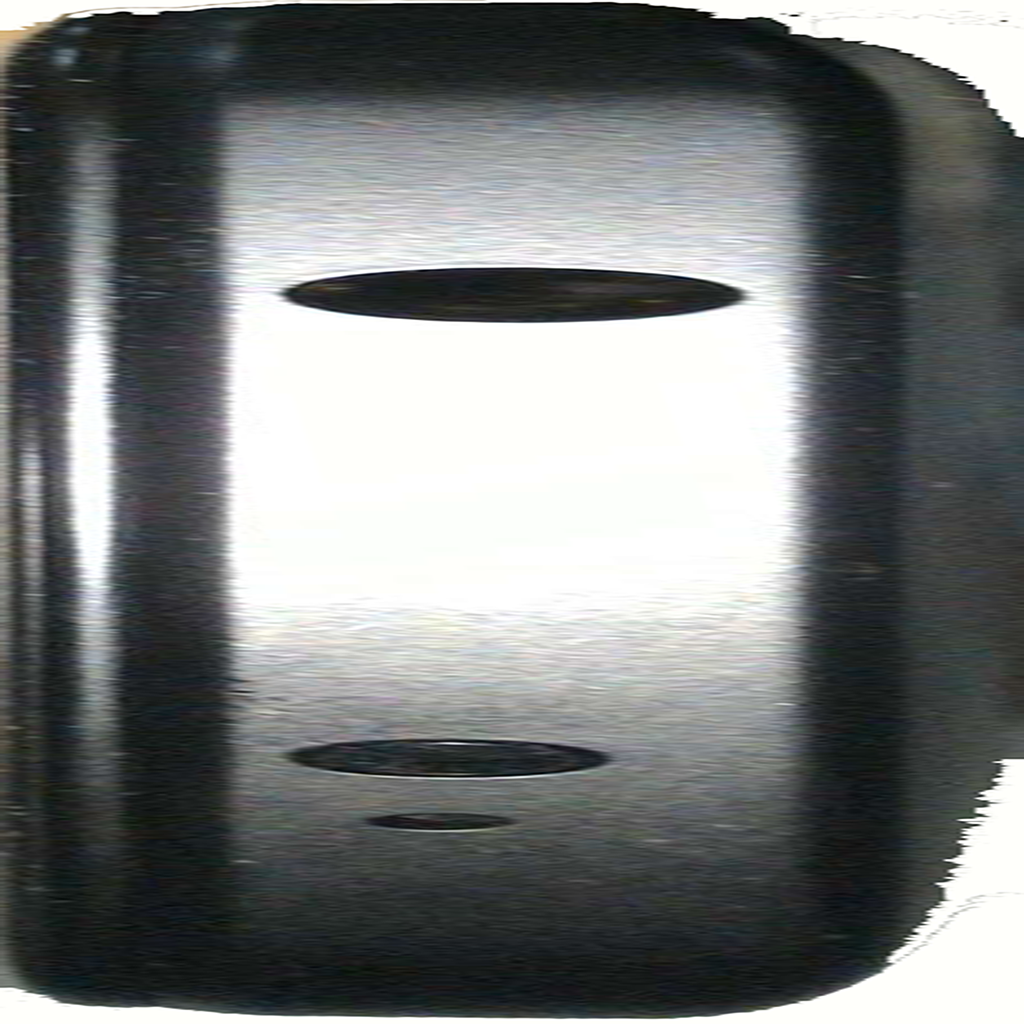
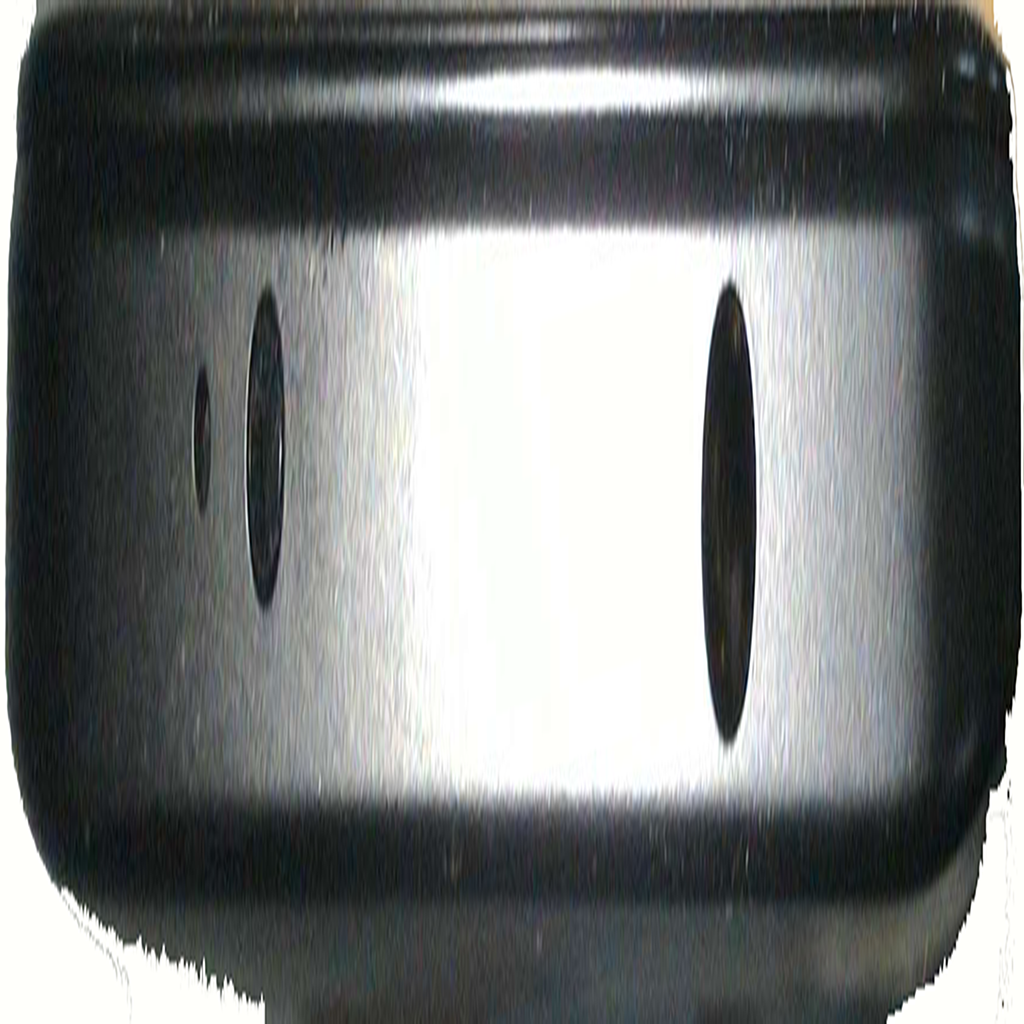
Phone Face Adjustments

diff --git a/work.py b/work.py
@@ -1,0 +1,143 @@
+from glumpy import app, gloo, gl, glm, data
+import numpy as np
+from os.path import abspath
+
+
+vertex = """
+    uniform mat4 u_model;       // Model matrix (local to world space)
+    uniform mat4 u_view;        // View matrix (world to camera space)
+    uniform mat4 u_projection;  // Projection matrix (camera to screen)
+    attribute vec3 a_position;  // Vertex Position
+    attribute vec3 a_normal;    // Vertex normal
+    varying vec3   v_texcoord;  // Interpolated fragment texture coordinates (out)
+    varying vec3   v_position;  // Interpolated position (out)
+    varying vec3   v_normal;    // Interpolated normal (out)
+    void main()
+    {
+        v_texcoord  = a_position;
+		v_normal = a_normal;
+		v_position = a_position;
+        gl_Position = u_projection * u_view * u_model * vec4(a_position,1.0);
+    } """
+
+fragment = """
+    uniform mat4      u_model;           // Model matrix
+    uniform mat4      u_view;            // View matrix
+    uniform mat4      u_normal;          // Normal matrix
+    uniform vec3      u_light_position;  // Light position
+    uniform vec3      u_light_intensity; // Light intensity
+    uniform samplerCube u_texture;       // Texture
+    varying vec3      v_normal;          // Interpolated normal (out)
+    varying vec3      v_position;        // Interpolated position (out)
+    varying vec3      v_texcoord;        // Interpolated fragment texture coordinates (out)
+    void main()
+    {
+        // Calculate normal in world coordinates
+        vec3 normal = normalize(u_normal * vec4(v_normal,1.0)).xyz;
+        // Calculate the location of this fragment (pixel) in world coordinates
+        vec3 position = vec3(u_view*u_model * vec4(v_position, 1));
+        // Calculate the vector from this pixels surface to the light source
+        vec3 surfaceToLight = u_light_position - position;
+        // Calculate the cosine of the angle of incidence (brightness)
+        float brightness = dot(normal, surfaceToLight) /
+                          (length(surfaceToLight) * length(normal));
+        brightness = max(min(brightness,1.0),0.0);
+        // Calculate final color of the pixel, based on:
+        // 1. The angle of incidence: brightness
+        // 2. The color/intensities of the light: light.intensities
+        // 3. The texture and texture coord: texture(tex, fragTexCoord)
+        // Get texture color
+        vec4 t_color = textureCube(u_texture, v_texcoord);
+        gl_FragColor = t_color * (0.1 + 0.9*brightness * vec4(u_light_intensity, 1));
+    } """
+
+fragment_plain = """
+    uniform samplerCube u_texture;  // Texture
+    varying vec3      v_normal;     // Interpolated normal (in)
+    varying vec3      v_position;   // Interpolated position (in)
+    varying vec3      v_texcoord;   // Interpolated fragment texture coordinates (in)
+    void main()
+    {
+        vec4 t_color = textureCube(u_texture, v_texcoord);
+        gl_FragColor = t_color;
+    } """
+
+
+# Initialize the array of vertex, and normal faces
+vertex_pos = [[ 1, 1, 1], [-1, 1, 1], [-1,-1, 1], [ 1,-1, 1], [ 1,-1,-1], [ 1, 1,-1], [-1, 1,-1], [-1,-1,-1]]
+face_norm = [[0, 0, 1], [1, 0, 0], [0, 1, 0],[-1, 0, 1], [0, -1, 0], [0, 0, -1]]
+
+face_vertex_idx = [0, 1, 2, 3,  0, 3, 4, 5,   0, 5, 6, 1,  1, 6, 7, 2,  7, 4, 3, 2,   4, 7, 6, 5]
+face_normal_idx = [0, 0, 0, 0,  1, 1, 1, 1,   2, 2, 2, 2, 3, 3, 3, 3,  4, 4, 4, 4,   5, 5, 5, 5]
+
+# Upload the texture data
+texture = np.zeros((6,1024,1024,3),dtype=np.float32).view(gloo.TextureCube)
+texture.interpolation = gl.GL_LINEAR
+texture[2] = data.get(abspath("Top_t2.png"))/255.
+texture[3] = data.get(abspath("Bottom_t2.png"))/255.
+texture[0] = data.get(abspath("Left_t2.png"))/255.
+texture[1] = data.get(abspath("Right_t2.png"))/255.
+texture[4] = data.get(abspath("Front_t2.png"))/255.
+texture[5] = data.get(abspath("Back_t2.png"))/255.
+
+# Bind the vertex object to the cube program
+cube = gloo.Program(vertex, fragment)
+cube["a_position"] = [vertex_pos[i] for i in face_vertex_idx]
+cube['a_normal'] = [face_norm[i] for i in face_normal_idx]
+cube['u_texture'] = texture
+
+# Initiate all three matrix
+view = np.eye(4,dtype=np.float32)
+model = np.eye(4,dtype=np.float32)
+projection = glm.perspective(45.0, 1, 2.0, 100.0)
+
+# Minimize the model, and move the camera-view back
+glm.scale(model,0.5,1,0.1)
+glm.translate(view, 0,0,-5)
+
+# Pass all the matrix to the model
+cube['u_model'] = model
+cube['u_view'] = view
+cube['u_projection'] = projection
+cube["u_light_position"] = 0,0,-2
+cube["u_light_intensity"] = 1,1,1
+
+# Initiaze the window
+phi = 0.5
+theta = 0.1
+kappa = 1
+window = app.Window(800,600)
+
+
+@window.event
+def on_resize(width, height):
+   global projection
+
+   ratio = width / float(height)
+   projection = glm.perspective(45.0, ratio, 2.0, 100.0)
+   cube['u_projection'] = projection
+
+
+@window.event
+def on_draw(dt):
+    global phi, theta, model
+
+    window.clear()
+    cube.draw(gl.GL_QUADS)
+
+    # Make cube rotate
+    #view = cube['u_view'].reshape(4,4)
+    #model = np.eye(4, dtype=np.float32)
+    glm.rotate(model, theta, 0, 0, 1)
+    glm.rotate(model, phi, 0, 1, 0)
+    glm.rotate(model, kappa, 1, 0, 0)
+    cube['u_model'] = model
+    cube['u_normal'] = np.array(np.matrix(np.dot(view, model)).I.T)
+
+
+@window.event
+def on_init():
+    gl.glEnable(gl.GL_DEPTH_TEST)
+    #gl.glDisable(gl.GL_BLEND)
+
+app.run()

diff --git a/phone.py b/phone.py
@@ -1,21 +1,21 @@
 import numpy as np
-from glumpy import app, gloo, gl, data
+from glumpy import app, gl, glm, gloo, data
 from os.path import abspath
 
 vertex = """
-uniform mat4   u_model;         // Model matrix
-uniform mat4   u_view;          // View matrix
-uniform mat4   u_projection;    // Projection matrix
-attribute vec3 a_position;      // Vertex position
-attribute vec3 a_texcoord;      // Vertex texture coordinates
-varying vec3   v_texcoord;      // Interpolated fragment texture coordinates (out)
-void main()
-{
-    // Assign varying variables
-    v_texcoord  = a_texcoord;
-    // Final position
-    gl_Position = u_projection * u_view * u_model * vec4(a_position,1.0);
-}
+	uniform mat4   u_model;         // Model matrix
+	uniform mat4   u_view;          // View matrix
+	uniform mat4   u_projection;    // Projection matrix
+    attribute vec3 a_position;
+    varying vec3 v_texcoord;
+	varying vec3   v_position;  // Interpolated position (out)
+	
+    void main()
+    {
+        gl_Position = u_projection * u_view * u_model * vec4(a_position,1.0);
+        v_texcoord = a_position;
+		v_position = a_position;
+    }
 """
 
 fragment = """
@@ -28,37 +28,60 @@ fragment = """
 """
 
 
-window = app.Window(width=1024, height=1024)
+window = app.Window(width=1024, height=1024,
+                    color=(0.30, 0.30, 0.35, 1.00))
 
 @window.event
 def on_draw(dt):
-    window.clear()
-    program.draw(gl.GL_TRIANGLES, indices)
+	global phi, theta, beta
+
+	window.clear()
+	program.draw(gl.GL_QUADS)
+	# Rotate cube
+	glm.rotate(model, theta, 0, 0, 1)
+	glm.rotate(model, phi, 0, 1, 0)
+	glm.rotate(model, beta, 1, 0, 0)
+	program['u_model'] = model
 
 @window.event
 def on_init():
     gl.glEnable(gl.GL_DEPTH_TEST)
+	
+@window.event
+def on_resize(width, height):
+    program['u_projection'] = glm.perspective(45.0, width / float(height), 2.0, 100.0)
+			 
+p = np.array([[+1,+1,+1], [-1,+1,+1], [-1,-1,+1], [+1,-1,+1],
+                     [+1,-1,-1], [+1,+1,-1], [-1,+1,-1], [-1,-1,-1]])
+n = np.array([[0, 0, 1], [1, 0, 0], [0, 1, 0],
+                  [-1, 0, 1], [0, -1, 0], [0, 0, -1]])
 
-vertices = np.array([[+1,+1,+1], [-1,+1,+1], [-1,-1,+1], [+1,-1,+1],
-                     [+1,-1,-1], [+1,+1,-1], [-1,+1,-1], [-1,-1,-1]])
-texcoords = np.array([[+1,+1,+1], [-1,+1,+1], [-1,-1,+1], [+1,-1,+1],
-                     [+1,-1,-1], [+1,+1,-1], [-1,+1,-1], [-1,-1,-1]])
-faces = np.array([vertices[i] for i in [0,1,2,3, 0,3,4,5, 0,5,6,1,
-                                        6,7,2,1, 7,4,3,2, 4,7,6,5]])
-indices = np.resize(np.array([0,1,2,0,2,3], dtype=np.uint32), 36)
-indices += np.repeat(4 * np.arange(6, dtype=np.uint32), 6)
-indices = indices.view(gloo.IndexBuffer)
+faces_p = [0, 1, 2, 3,  0, 3, 4, 5,   0, 5, 6, 1,
+               1, 6, 7, 2,  7, 4, 3, 2,   4, 7, 6, 5]
+faces_n = [0, 0, 0, 0,  1, 1, 1, 1,   2, 2, 2, 2,
+		   3, 3, 3, 3,  4, 4, 4, 4,   5, 5, 5, 5]
+		   
+program = gloo.Program(vertex, fragment)
+program["a_position"] = [p[i] for i in faces_p]
+# cube['a_normal'] = [face_norm[i] for i in face_normal_idx]
+
 texture = np.zeros((6,1024,1024,3),dtype=np.float32).view(gloo.TextureCube)
 texture.interpolation = gl.GL_LINEAR
-program = gloo.Program(vertex, fragment, count=24)
-program['position'] = faces
-program['texcoord'] = faces
-program['texture'] = texture
+texture[1] = data.get(abspath("Left_t2.png"))/255.
+texture[0] = data.get(abspath("Right_t2.png"))/255.
+texture[4] = data.get(abspath("Front_t2.png"))/255.
+texture[5] = data.get(abspath("Back_t2.png"))/255.
+texture[2] = data.get(abspath("Top_t2.png"))/255.
+texture[3] = data.get(abspath("Bottom_t2.png"))/255.
 
-texture[2] = data.get(abspath('Front_t2.png'))/255.
-texture[3] = data.get(abspath('Back_t2.png'))/255.
-texture[0] = data.get(abspath('Top_t2.png'))/255.
-texture[1] = data.get(abspath('Bottom_t2.png'))/255.
-texture[4] = data.get(abspath('Left_t2.png'))/255.
-texture[5] = data.get(abspath('Right_t2.png'))/255.
+model = np.eye(4,dtype=np.float32)
+glm.scale(model, 0.5, 1, 0.1)
+
+program['texture'] = texture
+program['u_model'] = model
+program['u_view'] = glm.translation(0, 0, -5)
+phi = 0.5
+theta = 0.1
+beta = 0.5
+
 app.run()

diff --git a/texture.py b/texture.py
@@ -22,7 +22,7 @@ def cube():
     faces_n = [0, 0, 0, 0,  1, 1, 1, 1,   2, 2, 2, 2,
                3, 3, 3, 3,  4, 4, 4, 4,   5, 5, 5, 5]
     faces_t = [0, 1, 2, 3,  0, 1, 2, 3,   0, 1, 2, 3,
-               3, 2, 1, 0,  0, 1, 2, 3,   0, 1, 2, 3]
+               0, 1, 2, 3,  0, 1, 2, 3,   0, 1, 2, 3]
 
     vertices = np.zeros(24, vtype)
     vertices['a_position'] = p[faces_p]
@@ -99,6 +99,7 @@ texture[2] = data.get(abspath("Left_t2.png"))/255.
 texture[3] = data.get(abspath("Right_t2.png"))/255.
 texture[0] = data.get(abspath("Front_t2.png"))/255.
 texture[1] = data.get(abspath("Back_t2.png"))/255.
+texture[4] = data.get(abspath("Top_t2.png"))/255.
 texture[4] = data.get(abspath("Top_t2.png"))/255.
 texture[5] = data.get(abspath("Bottom_t2.png"))/255.
 
